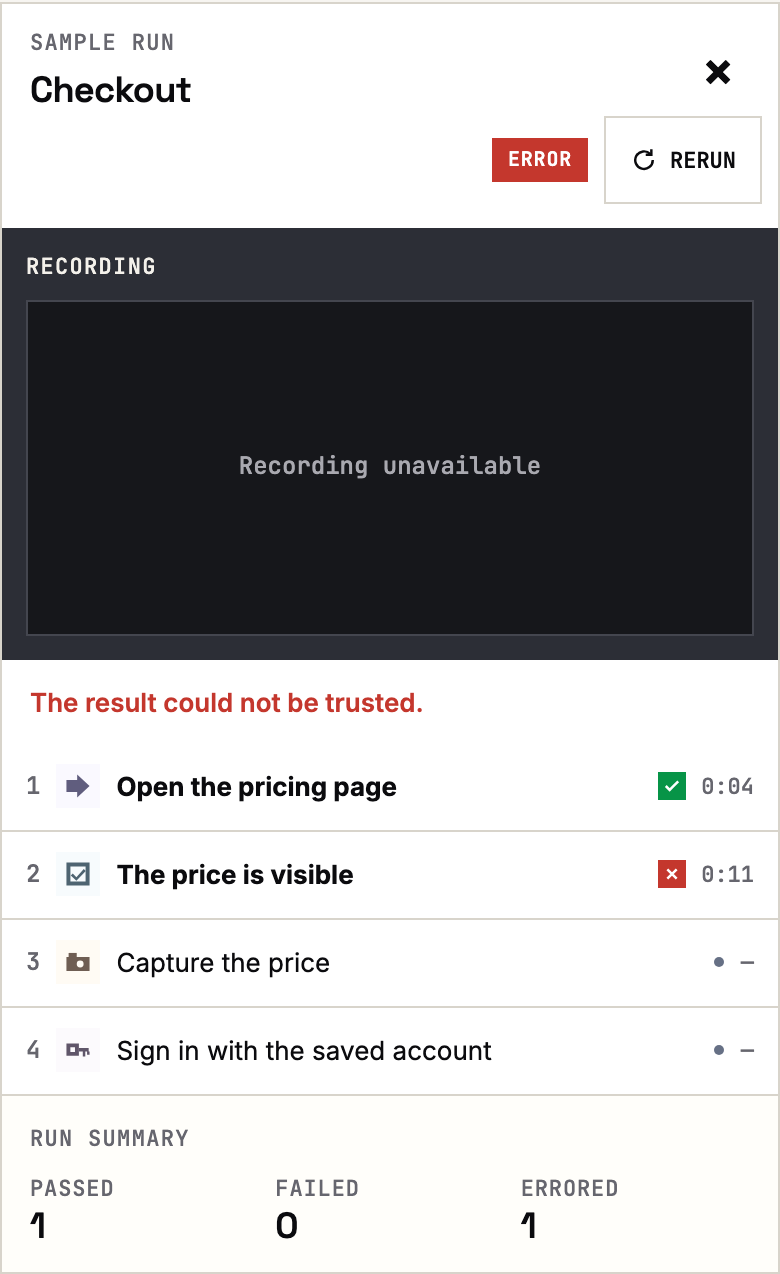
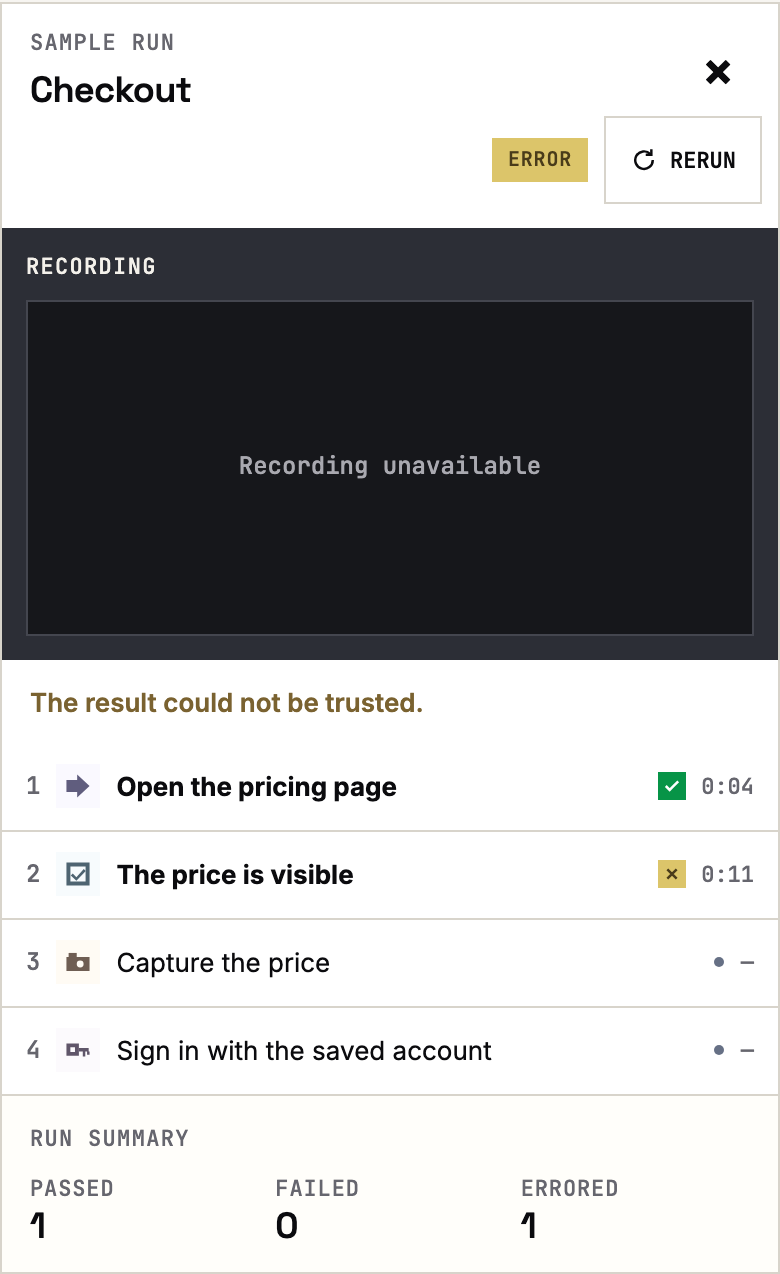
Use a muted yellow for the error state.

diff --git a/src/components/OutcomeIcon.svelte b/src/components/OutcomeIcon.svelte
@@ -1,9 +1,9 @@
 <script lang="ts">
   let { outcome }: { outcome: string } = $props();
-  const framed: Readonly<Record<string, "pass" | "fail" | "idle">> = {
+  const framed: Readonly<Record<string, "pass" | "fail" | "error" | "idle">> = {
     PASSED: "pass",
     FAILED: "fail",
-    ERROR: "fail",
+    ERROR: "error",
     UNEXECUTED: "idle",
     QUEUED: "idle",
   };
@@ -17,7 +17,7 @@
 {:else if tone}
   <svg class="outcome-solid outcome-solid--{tone}" width="14" height="14" viewBox="0 0 18 18" aria-hidden="true">
     <rect x="0" y="0" width="18" height="18" fill="currentColor" />
-    <path fill="none" stroke="#fff" stroke-width="1.6" d={tone === "pass" ? "M5 9l2.5 2.5L13 6" : "M6 6l6 6m0-6l-6 6"} />
+    <path fill="none" stroke={tone === "error" ? "#4a3c1a" : "#fff"} stroke-width="1.6" d={tone === "pass" ? "M5 9l2.5 2.5L13 6" : "M6 6l6 6m0-6l-6 6"} />
   </svg>
 {/if}
 
@@ -25,5 +25,6 @@
   .outcome-solid { display: block; flex: 0 0 14px; }
   .outcome-solid--pass { color: var(--run-passed, #079447); }
   .outcome-solid--fail { color: var(--run-failed, #c4372d); }
+  .outcome-solid--error { color: #dcc56a; }
   .outcome-solid--idle { flex: 0 0 6px; width: 6px; color: var(--run-ready-dot, #667085); }
 </style>

diff --git a/src/components/MobileRun.svelte b/src/components/MobileRun.svelte
@@ -251,7 +251,7 @@
     margin: 0;
     padding: 12px 14px;
     background: var(--surface-raised);
-    color: var(--run-failed, #c4372d);
+    color: #7a6230;
     font: 600 13px / 1.4 var(--font-body, Inter, sans-serif);
   }
   ol { margin: 0; padding: 0; list-style: none; background: var(--surface-raised); }

diff --git a/src/components/StatusBadge.svelte b/src/components/StatusBadge.svelte
@@ -19,5 +19,6 @@
     text-transform: uppercase;
   }
   .passed { background: var(--run-passed, #079447); }
-  .failed, .error { background: var(--run-failed, #c4372d); }
+  .failed { background: var(--run-failed, #c4372d); }
+  .error { background: #dcc56a; color: #4a3c1a; }
 </style>
